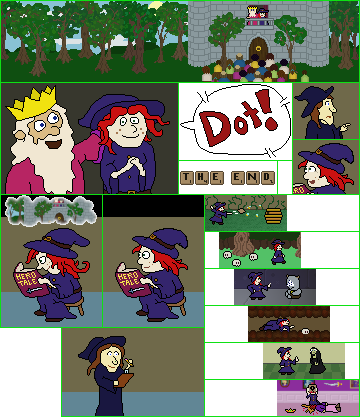
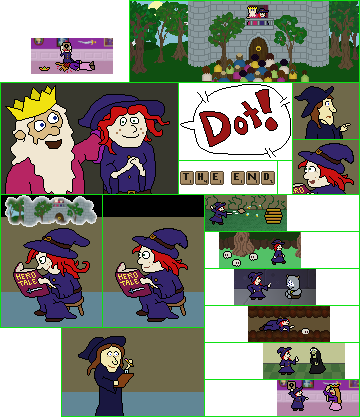
new credits layout, show full roll on right

Changed region(s): [[0.0, 0.0, 0.3667, 0.2182], [0.7639, 0.9041, 1.0, 0.9976]]

diff --git a/src/game/modal/modal_type_victory.c b/src/game/modal/modal_type_victory.c
@@ -11,29 +11,37 @@
 static const char *credits[]={
   "Spelling Bee",
   "",
+  "",
   "December 2024",
   "",
+  "",
   "Starring Dot Vine",
+  "",
   "",
   "Code, graphics, music:",
   "AK Sommerville",
   "",
+  "",
   "Dictionary:",
   "NASPA Word List 2023",
   "Under license from NASPA",
+  "",
   "",
   "Beta testers:",
   "Alex Hansen",
   "Tim Sommerville",
   //TODO
   "",
+  "",
   "Thanks:",
   "Curtis Robinson",
   "GDEX Staff",
   "COGG",
   "",
+  "",
   "Play more games:",
   "http://aksommerville.com",
+  "",
   "",
   "Thanks for playing!",
   "-AK and Dot",
@@ -55,7 +63,7 @@ static struct cinema_bit {
   void (*cb)(struct modal *modal,double t,int texid); // Generic render for upper part. Caller manages fade in/out.
 } cinema_bitv[]={
   {  1.0,  0,  0,  0,  0,""}, // First one must be empty, it doesn't get a proper welcome.
-  {  8.0,  1,  1,358, 81,"A great crowd assembled to hear the king's proclamation."},
+  {  8.0,130,  1,229, 81,"A great crowd assembled to hear the king's proclamation."},
   {  8.0,  1, 83,177,111,"With exemplary courage and wisdom, Dot Vine has saved the kingdom once again!"},
   {  7.0,0,0,0,0,"",cinema_dot_reading},
   {  5.0,293, 83, 66, 56,"Quit goofing off and fetch those overdue books!"},
@@ -213,13 +221,13 @@ static void cinema_dot_reading(struct modal *modal,double t,int texid) {
   int16_t srcy=195;
   int16_t w=101;
   int16_t h=132;
-  int16_t dstx=200;
+  int16_t dstx=100;
   int16_t dsty=0;
   graf_draw_decal(&g.graf,texid,dstx,dsty,srcx,srcy,w,h,0);
 
   // Word bubble, last half.
   if (t>=0.600) {
-    graf_draw_decal(&g.graf,texid,20,10,179,83,113,77,0);
+    graf_draw_decal(&g.graf,texid,0,10,179,83,113,77,0);
   }
 }
 
@@ -303,7 +311,7 @@ static int victory_repr_word(char *dst,int dsta,const char *src,struct saved_gam
  
 static void victory_generate_stats(struct modal *modal) {
   int rowh=font_get_line_height(g.font)+1;
-  MODAL->statsw=140;
+  MODAL->statsw=110;
   MODAL->statsh=rowh*8;
   int stride=MODAL->statsw<<2;
   uint8_t *rgba=calloc(stride,MODAL->statsh);
@@ -344,7 +352,7 @@ static void victory_generate_stats(struct modal *modal) {
  
 static void cinema_stats(struct modal *modal,double t,int texid) {
   if (!MODAL->texid_stats) victory_generate_stats(modal);
-  int16_t dstx=(g.fbw>>1)-(MODAL->statsw>>1);
+  int16_t dstx=((g.fbw-MODAL->creditsw)>>1)-(MODAL->statsw>>1);
   int16_t dsty=(139>>1)-(MODAL->statsh>>1);
   graf_draw_decal(&g.graf,MODAL->texid_stats,dstx,dsty,0,0,MODAL->statsw,MODAL->statsh,0);
 }
@@ -359,9 +367,10 @@ static void _victory_render(struct modal *modal) {
   
   // Action scene on top, 360x139
   if (MODAL->bitp<cinema_bitcount) {
+    int actionw=g.fbw-MODAL->creditsw;
     const struct cinema_bit *bit=cinema_bitv+MODAL->bitp;
     if ((bit->w>0)&&(bit->h>0)) {
-      int16_t dstx=(g.fbw>>1)-(bit->w>>1);
+      int16_t dstx=(actionw>>1)-(bit->w>>1);
       int16_t dsty=((g.fbh-50)>>1)-(bit->h>>1);
       graf_draw_decal(&g.graf,texid,dstx,dsty,bit->x,bit->y,bit->w,bit->h,0);
     }
@@ -376,7 +385,7 @@ static void _victory_render(struct modal *modal) {
     }
     if (alpha<0) alpha=0; else if (alpha>0xff) alpha=0xff;
     if (alpha) {
-      graf_draw_rect(&g.graf,0,0,g.fbw,139,0x00000000|alpha);
+      graf_draw_rect(&g.graf,0,0,actionw,139,0x00000000|alpha);
     }
   }
   
@@ -398,7 +407,7 @@ static void _victory_render(struct modal *modal) {
   
   { // Scrolling credits in the lower right corner.
     int credw=MODAL->creditsw+10;
-    int credh=50;
+    int credh=g.fbh;
     int dstx=g.fbw-credw+5;
     int dsty=g.fbh-credh;
     int srcx=0;

diff --git a/src/game/modal/modal_type_hello.c b/src/game/modal/modal_type_hello.c
@@ -221,7 +221,7 @@ static int _hello_init(struct modal *modal) {
   hello_add_option(modal,HELLO_OPTION_BATTLE,1);
   hello_add_option(modal,HELLO_OPTION_DICT,1);
   hello_add_option(modal,HELLO_OPTION_CREDITS,1);
-  //hello_add_option(modal,HELLO_OPTION_SETTINGS,0);
+  //hello_add_option(modal,HELLO_OPTION_SETTINGS,1);
   hello_add_option(modal,HELLO_OPTION_QUIT,1);
   
   /* Position options.

diff --git a/README.md b/README.md
@@ -12,11 +12,17 @@ Gives us about 57k words in a 400 kB resource.
 ## TODO
 
 - [ ] Disable TRACE logging before the public release.
-- [ ] Acquire NASPA license before the public release. 2024-12-02: Bought membership (AA009238) and emailed inquiring about licensing. 2023-12-02: Signed and returned.
+- [x] Acquire NASPA license before the public release. 2024-12-02: Bought membership (AA009238) and emailed inquiring about licensing. 2023-12-02: Signed and returned. 2023-12-04: Done.
 - [ ] Egg: Web: Sometimes there's a haywire note as songs change.
 - - 2024-11-26 repairs in egg seem to have mitigated it, but i'm still hearing something off now and then.
 - - I think there's something wrong in native too. Hardly ever happens and not very noticeable when it does, but there can be a kathunk when a song begins.
 - - ...the native bit might be in my head.
+- - 2024-12-04: Trying once more, and yes there are definitely haywire notes in web during a transition, can be very far between. Not hearing in native.
+- - Definitely related to the interrupt cancellation at Channel.js:cancel().
+- - [ ] Try creating an extra GainNode at the Song level, and wind that one down instead of reaching in for all the individual voices.
+- [ ] Reduce price of bug spray. I think 30.
+- [ ] Increase reward for bosses. All should be, let's say 200 gold, and all the same XP.
+- [x] Victory: Run credits all the way up on the right, does that fit nice?
 
 ## Dictionary Notes
 
@@ -113,3 +119,18 @@ Scoring:
  - Queen: If a word would kill her but does not contain Q, its value is reduced to leave her with exactly 1 HP.
  - If a word is not in the dictionary, it damages you instead of the monster, bonuses and all.
  - No penalty for folding, except that the monster gets a free play.
+ 
+## High Scores
+
+Should be possible to finish the main quest with only 9 battles, if you bug spray the whole way.
+Of course you're counting on luck to get the first graverob without spraying.
+
+Any%
+
+- AK, native, 2024-12-04, 19:02, 2261 steps, side 0/5, battlec 14. Got lucky with 3 graverobs in the very front.
+- AK, native, 2024-12-04, 21:43, 2100 steps, side 0/5, battlec 24. Bad luck graverobs.
+- AK, native, 2024-12-04, 21:08, 2221 steps, side 0/5, battlec 18.
+
+100%
+
+
